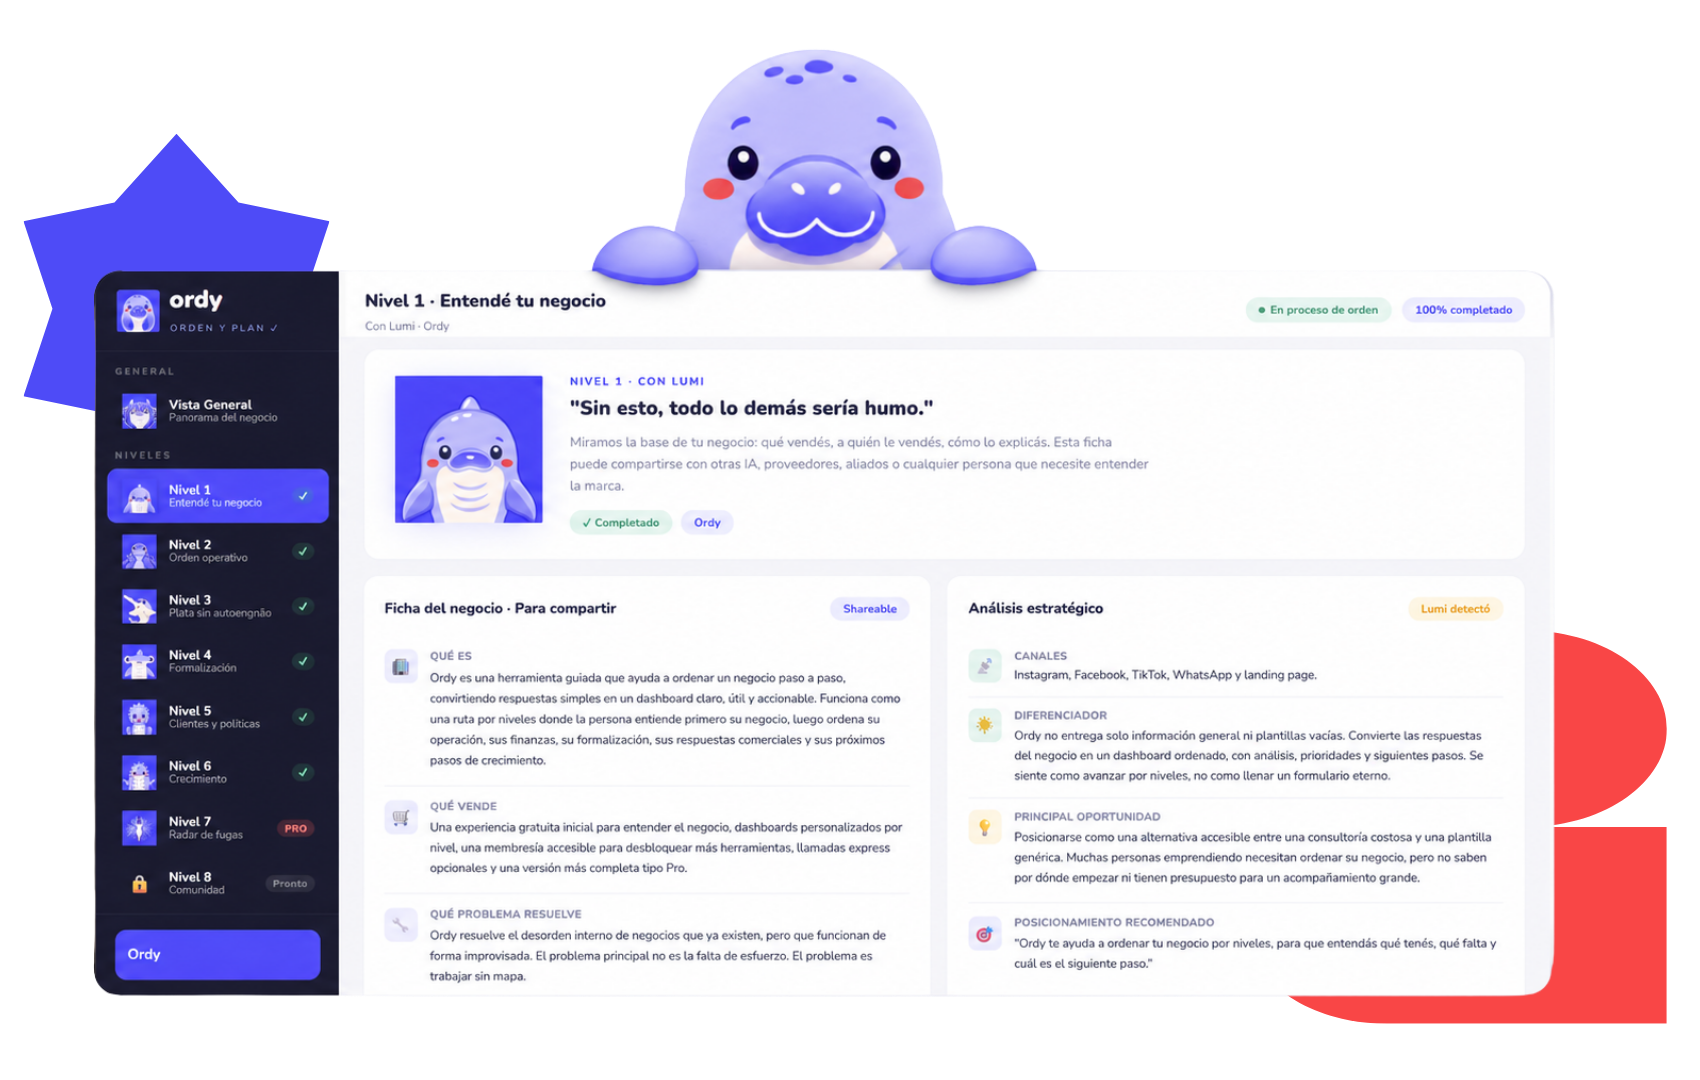
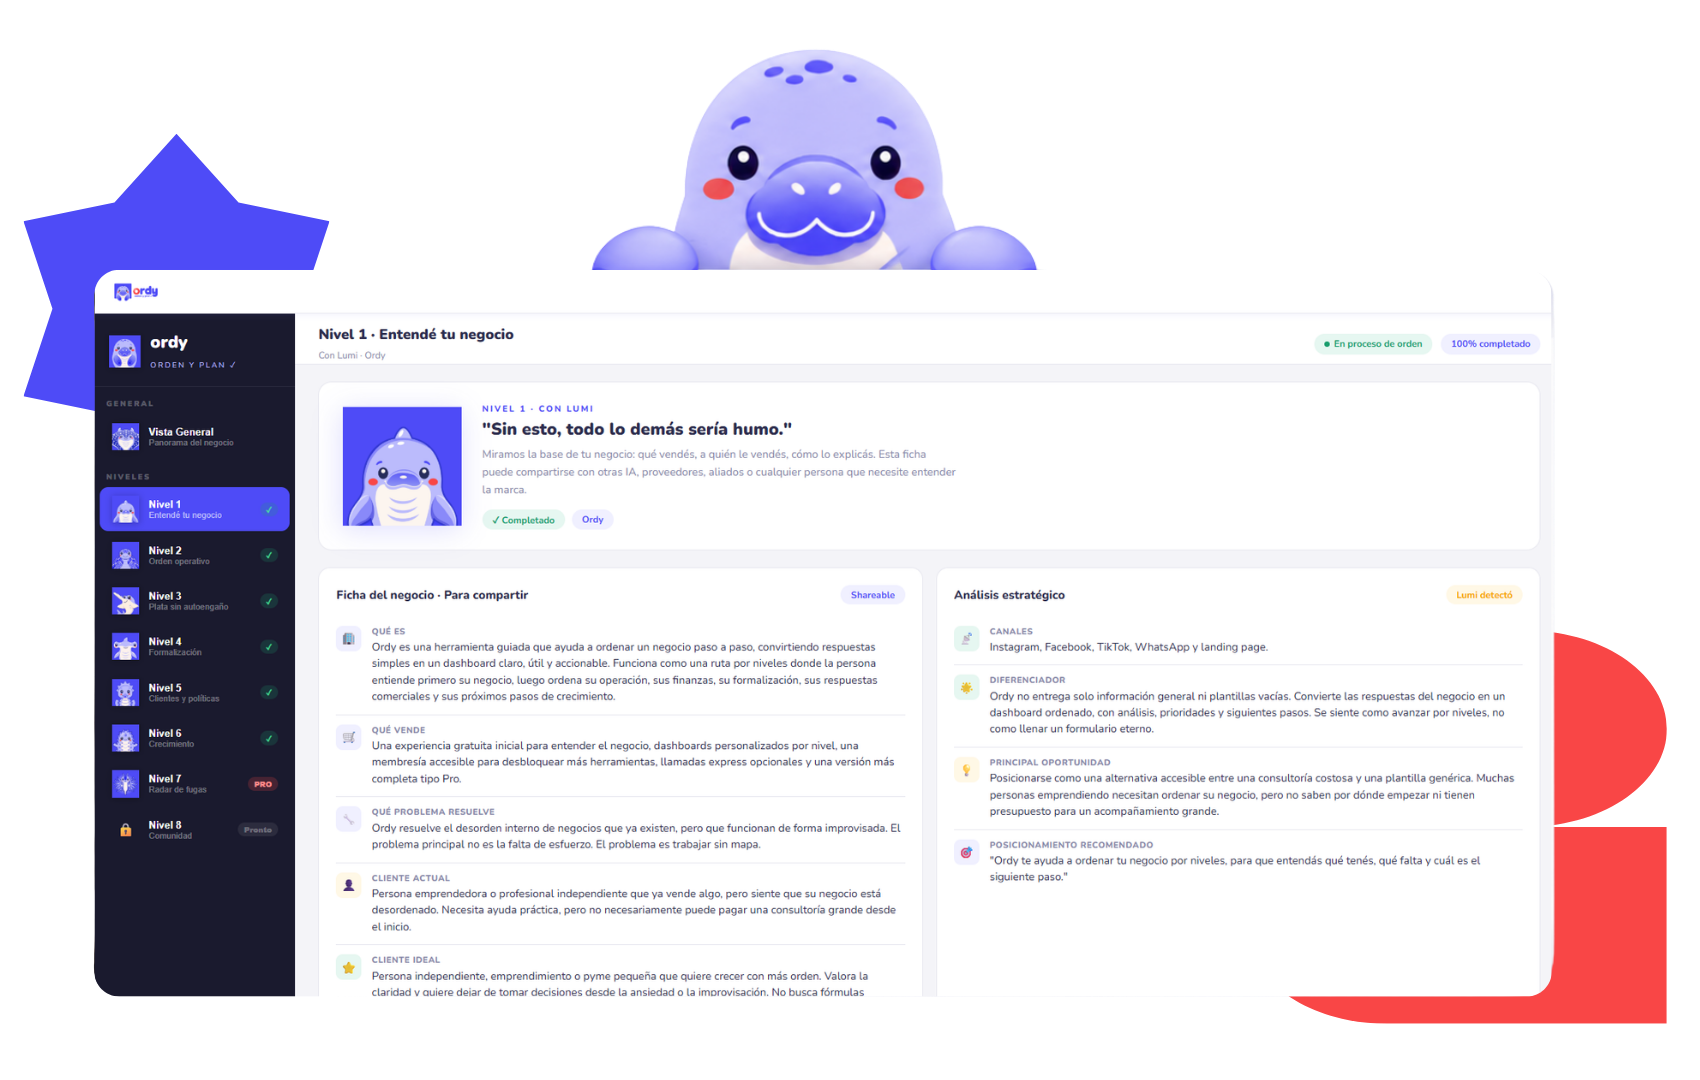
Add files via upload

diff --git a/index.html b/index.html
@@ -105,8 +105,8 @@
 
     /* METODOLOGÍA — ordy bg, imagen izquierda */
     .metodologia { background: #0D0D1F; display: grid; grid-template-columns: 1fr 1fr; align-items: center; min-height: 75vh; overflow: hidden; }
-    .metodologia-left { display: flex; align-items: center; justify-content: center; padding: 3rem; }
-    .metodologia-left img { width: 95%; max-width: 560px; display: block; border-radius: 20px; box-shadow: 0 24px 60px rgba(0,0,0,.4); }
+    .metodologia-left { display: flex; align-items: center; justify-content: center; padding: 2rem; }
+    .metodologia-left img { width: 100%; max-width: 640px; display: block; border-radius: 16px; }
     .metodologia-right { padding: 5rem 10% 5rem 4rem; }
     .metodologia-right .section-tag { display: inline-block; font-size: .75rem; font-weight: 700; letter-spacing: .08em; text-transform: uppercase; color: var(--lila); background: rgba(187,187,252,.15); padding: .3rem .8rem; border-radius: 100px; margin-bottom: 1.25rem; }
     .metodologia-right h2 { font-size: clamp(2rem, 3.5vw, 3rem); font-weight: 900; color: white; margin-bottom: 1.25rem; }
@@ -307,15 +307,15 @@
 <section class="story">
   <div class="story-inner">
     <span class="section-tag">El problema</span>
-    <h2>La hoja en<br><em>blanco.</em></h2>
+    <h2>La hoja en <em>blanco.</em></h2>
     <div class="chat-mock">
       <div class="chat-mock-bubble">¿Por dónde querés iniciar tu negocio hoy?<span class="chat-mock-cursor"></span></div>
     </div>
     <p>Muchas veces queremos usar IA, pero no sabemos qué pedirle. Queremos organizarnos, pero no sabemos por dónde empezar. Esa pantalla en blanco, ese cursor parpadeando, esa sensación de no saber qué escribir primero.</p>
-    <p>Tenés el conocimiento. Tenés el negocio. Pero la información vive en tu cabeza, en notas dispersas, en conversaciones que nunca se convierten en un plan.</p>
+    <p>Tenés el conocimiento, tenés el negocio, pero la información vive en tu cabeza, en notas dispersas, en conversaciones que nunca se convierten en un plan.</p>
   </div>
   <div class="story-bottom">
-    <p class="ordy-nace">Ordy nace justo ahí.</p>
+    <p class="ordy-nace">¡Ordy nace justo ahí!</p>
     <img src="ordy-inauguration.png" alt="Ordy inaugurando" class="float">
   </div>
 </section>
@@ -327,9 +327,9 @@
   </div>
   <div class="whatis-right">
     <span class="section-tag">Qué es Ordy</span>
-    <h2>No reemplaza tus herramientas.<br><span>Les da dirección.</span></h2>
+    <h2>No reemplaza tus herramientas, <span>les da dirección.</span></h2>
     <p>Ordy convierte la información de tu negocio en una guía clara para que podás tomar mejores decisiones, usar mejor la IA y construir sistemas que realmente se adapten a vos.</p>
-    <p>No es una app de gestión. Es el paso previo que siempre faltó.</p>
+    <p>No es una app de gestión, es el paso previo que siempre faltó.</p>
     <div class="pillars">
       <div class="pillar"><span class="pillar-icon">🤖</span><span class="pillar-text">IA con contexto real</span></div>
       <div class="pillar"><span class="pillar-icon">📊</span><span class="pillar-text">Dashboards con sentido</span></div>
@@ -344,7 +344,7 @@
   <div class="nocero-top">
     <span class="section-tag">El proceso</span>
     <h2>No empezás desde cero.<br>Empezás desde lo que ya tenés.</h2>
-    <p>Los cuestionarios de Ordy no son un examen. Son una guía para ayudarte a contar lo que ya sabés de tu negocio: qué vendés, cómo cobrás, qué dudas se repiten, qué procesos existen.</p>
+    <p>Los cuestionarios de Ordy no son un examen, son una guía para ayudarte a contar lo que ya sabés de tu negocio: qué vendés, cómo cobrás, qué dudas se repiten, qué procesos existen.</p>
     <p>A partir de ahí, Ordy organiza lo que tenés, detecta vacíos y convierte esa información en una ruta clara.</p>
   </div>
   <div class="quote-img">
@@ -362,7 +362,6 @@
     <h2>Antes de ayudar a otros negocios, lo usamos en el nuestro.</h2>
     <p>Ordy nació mientras intentábamos ordenar nuestras propias ideas, procesos y decisiones. Lo que empezó como necesidad interna se convirtió en una metodología que hoy ayuda a otros negocios a encontrar claridad.</p>
     <p>Sabíamos que funcionaba cuando empezó a darnos paz en nuestro propio negocio.</p>
-    <p class="note">Vista parcial del dashboard interno. Información estratégica ocultada.</p>
   </div>
 </section>
 
@@ -378,7 +377,7 @@
     <div class="step">
       <div class="step-num n1">1</div>
       <h3>Contás lo que ya sabés</h3>
-      <p>Cuestionario guiado sobre tu negocio. No es un examen — es sacar lo que está en tu cabeza y ponerlo en orden.</p>
+      <p>Cuestionario guiado sobre tu negocio. No es un examen, es sacar lo que está en tu cabeza y ponerlo en orden.</p>
     </div>
     <div class="step">
       <div class="step-num n2">2</div>
@@ -454,9 +453,11 @@
       <div class="pnote">5 cupos beta este mes</div>
       <div class="pdesc">Para negocios que quieren una primera vista clara sin compromiso.</div>
       <ul class="pfeatures">
-        <li>Nivel 1</li><li>Dashboard base</li>
+        <li>Nivel 1</li>
+        <li>Dashboard base</li>
         <li>Recomendación de siguiente paso</li>
-        <li>Prompt resumen</li><li>3 mensajes personalizados</li>
+        <li>Prompt resumen — copialo y pegalo en cualquier IA para que entienda tu negocio al instante</li>
+        <li>3 mensajes personalizados</li>
       </ul>
       <a href="#" class="pbtn ordy">Quiero mi cupo gratis</a>
     </div>
@@ -467,8 +468,9 @@
       <div class="pstrike">Precio regular: ₡67.000</div>
       <div class="pdesc">Para negocios que quieren ordenar procesos, números, clientes y próximos pasos.</div>
       <ul class="pfeatures">
-        <li>Niveles 2 al 6</li>
+        <li>Niveles 1 al 6</li>
         <li>Dashboard actualizado por nivel</li>
+        <li>Prompt resumen por nivel para alimentar tus herramientas con IA</li>
         <li>2 llamadas estratégicas</li>
         <li>Seguimiento por WhatsApp</li>
         <li>Recomendaciones accionables</li>
@@ -510,8 +512,8 @@
   </div>
   <div class="herramientas-right">
     <span class="section-tag">Integración</span>
-    <h2>No reemplaza tus herramientas. <span>Les da dirección.</span></h2>
-    <p>Después de Ordy, usar IA, Notion, Excel, Trello o Canva se vuelve más fácil. Ya no empezás desde una hoja en blanco — empezás con contexto, estructura y una base real.</p>
+    <h2>No reemplaza tus herramientas, <span>les da dirección.</span></h2>
+    <p>Después de Ordy, ya no empezás desde una hoja en blanco — empezás con contexto. Solo copiá y pegá tu dashboard o el prompt de la sección que más te interesa en cualquier herramienta de IA, y al instante tendrá todo el contexto de tu negocio para darte respuestas que realmente sirvan.</p>
     <div class="tools">
       <span class="tool">🤖 ChatGPT</span>
       <span class="tool">📝 Notion</span>
@@ -531,8 +533,8 @@
       <h2>Preguntas frecuentes</h2>
     </div>
     <div class="faq-item">
-      <button class="faq-toggle" type="button">¿Ordy es una app? <span class="faq-icon">+</span></button>
-      <div class="faq-answer"><p>Ordy es una metodología guiada con dashboards personalizados. En esta etapa beta trabajamos con cuestionarios, análisis y entregables visuales para ayudarte a ordenar tu negocio.</p></div>
+      <button class="faq-toggle" type="button">¿En resumen, qué es Ordy? <span class="faq-icon">+</span></button>
+      <div class="faq-answer"><p>Ordy es una metodología guiada con dashboards personalizados. A través de cuestionarios simples, organiza la información de tu negocio y te entrega un dashboard claro con hallazgos, recomendaciones y un prompt que podés usar para que cualquier IA entienda tu negocio al instante.</p></div>
     </div>
     <div class="faq-item">
       <button class="faq-toggle" type="button">¿Tengo que tener todo claro para empezar? <span class="faq-icon">+</span></button>
@@ -564,7 +566,7 @@
     <p>Estamos construyendo herramientas que ayuden a más personas a ordenar sus negocios. Si representás una organización, comunidad o empresa interesada en alianzas, nos encantará conversar.</p>
     <div class="btns-row">
       <a href="https://wa.me/[phone redacted]?text=Quiero%20conversar%20sobre%20alianzas%20con%20Ordy" target="_blank" class="btn-wa">💬 WhatsApp</a>
-      <a href="#" class="btn-outline">✉️ Contacto</a>
+      <a href="mailto:[email redacted]" class="btn-outline">✉️ Contacto</a>
     </div>
   </div>
 </section>